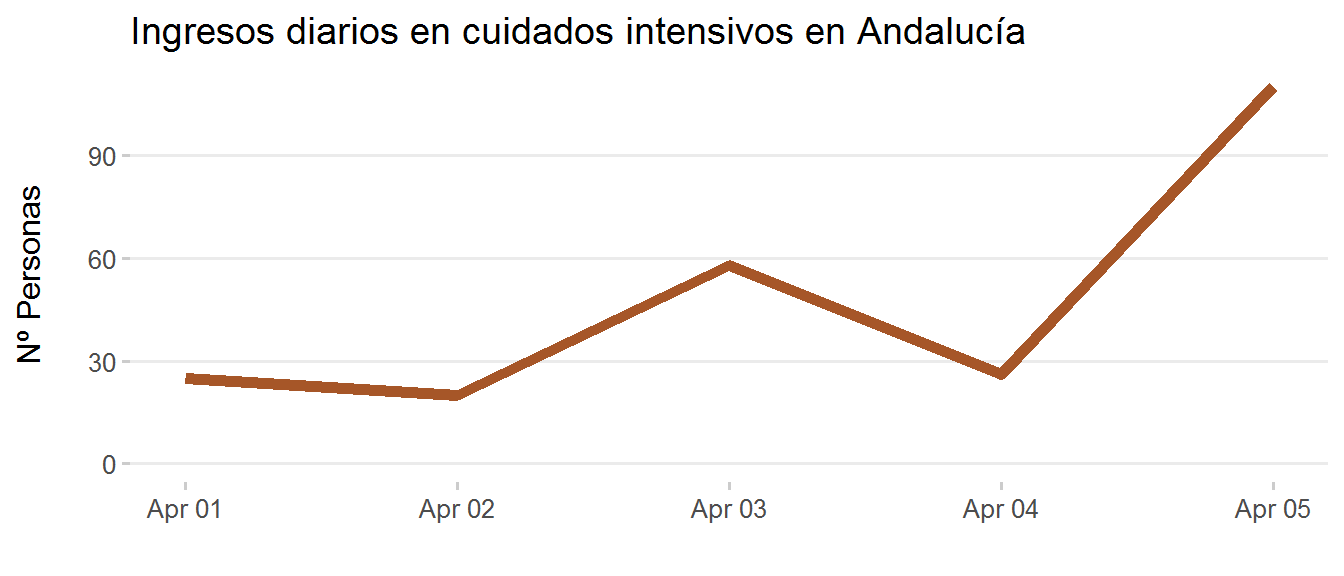
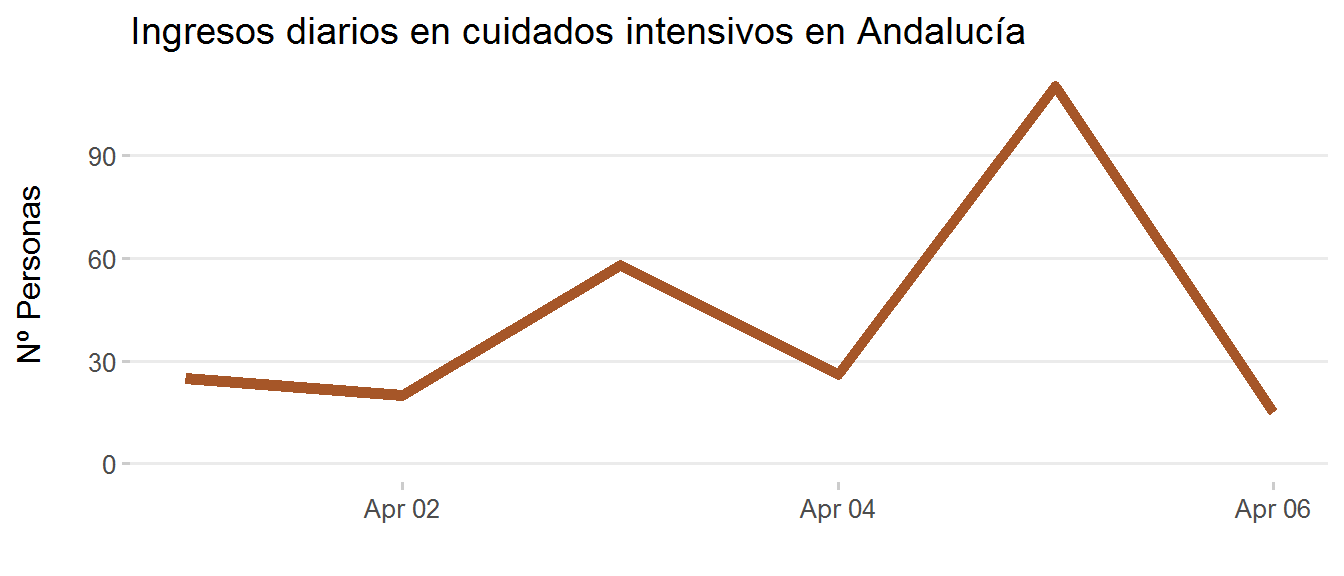
update 6 Abril

diff --git a/evolucion-coronavirus-andalucia.html b/evolucion-coronavirus-andalucia.html
@@ -194,7 +194,7 @@ summary {
 <p><br></p>
 <p>Aquí se visualiza la evolución de la enfermedad del coronavirus (COVID-19) en Andalucía, según los <a href="https://www.juntadeandalucia.es/organismos/saludyfamilias/areas/salud-vida/paginas/Nuevo_Coronavirus.html">datos oficiales ofrecidos por la Consejería de Salud y Familias</a>. A diferencia de otras visualizaciones más extendidas, que representan datos acumulados en el tiempo, aquí se enfatizan las <strong>variaciones diarias absolutas (no acumuladas)</strong> en número de casos detectados, personas ingresadas, curadas y número de fallecimientos.</p>
 <p>Los datos se actualizan diariamente. Tanto los datos como el código empleado para generar estas visualizaciones está disponible <a href="https://github.com/Pakillo/COVID19-Andalucia">aquí</a>.</p>
-<p>Última actualización: 2020-04-05</p>
+<p>Última actualización: 2020-04-06</p>
 <ul>
 <li><a href="#casos-detectados">Casos detectados</a></li>
 <li><a href="#ingresos-en-centros-hospitalarios">Ingresos en centros hospitalarios</a></li>
